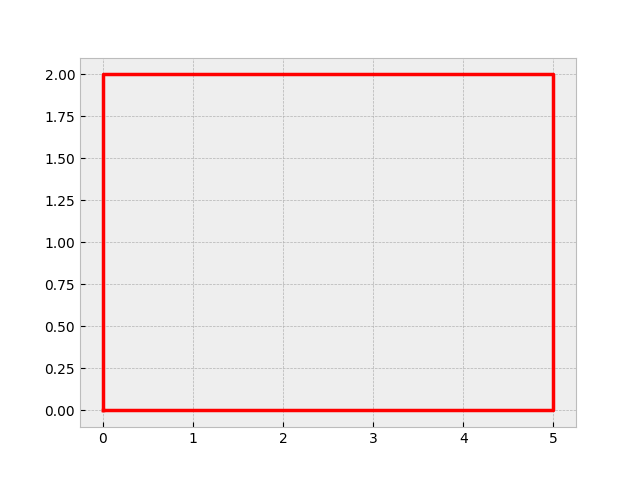
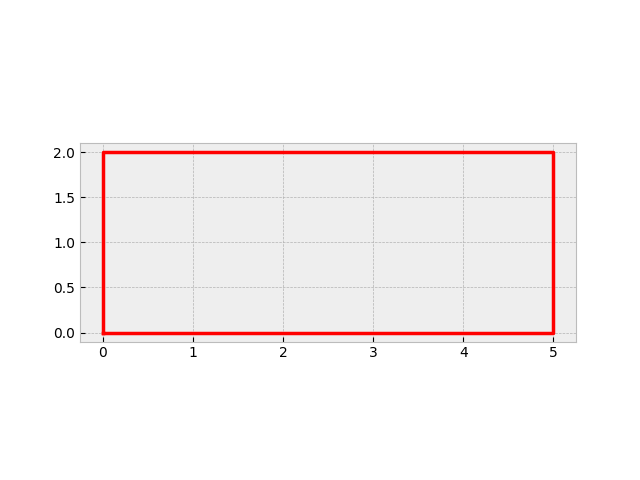
fixed dimensions of the shape plots

diff --git a/assignment_12/shapes.py b/assignment_12/shapes.py
@@ -28,6 +28,7 @@ class Rectangle():
         y.append(0)
         plt.style.use('bmh')
         plt.figure(0)
+        plt.gca().set_aspect("equal")
         plt.plot(x, y, color=self.color, linewidth=2.5)
         plt.savefig("rectangle.png")
 
@@ -64,6 +65,7 @@ class Triangle():
         y.append(0)
         plt.style.use('bmh')
         plt.figure(1)
+        plt.gca().set_aspect("equal")
         plt.plot(x, y, color=self.color, linewidth=2.5)
         plt.savefig("triangle.png")
 
